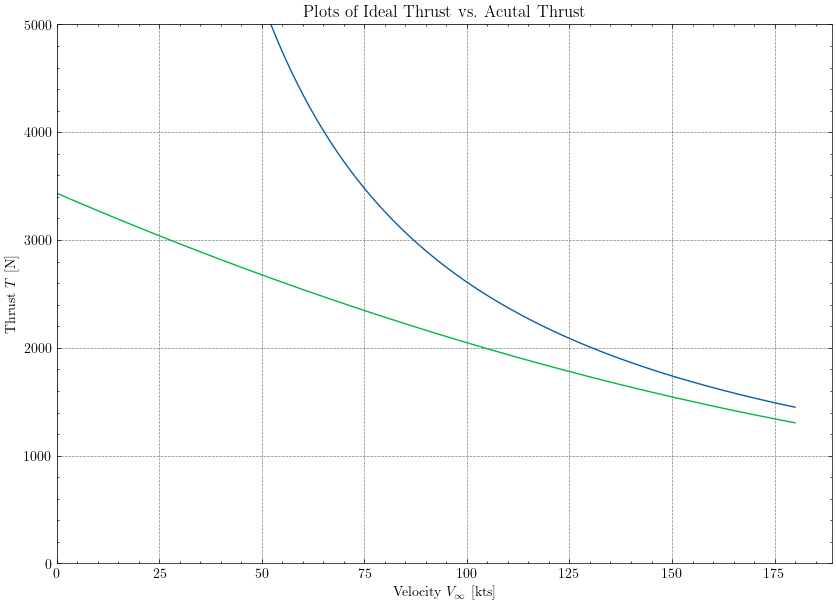
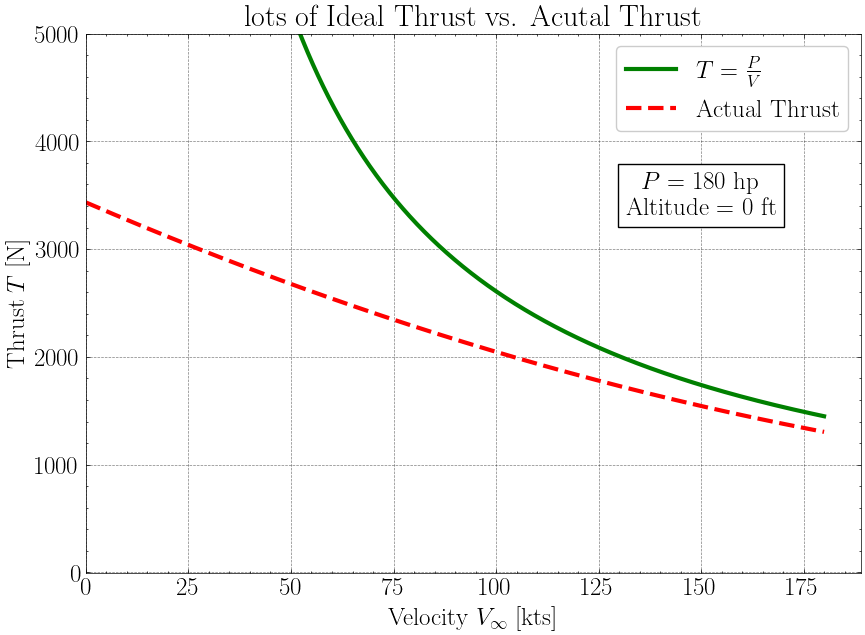
Thrust Plot Edits

diff --git a/Propulsion/Engine.py b/Propulsion/Engine.py
@@ -135,6 +135,8 @@ engine1 = EngineTest("test", ArcherProp)
 import matplotlib.pyplot as plt
 import numpy as np
 import scienceplots
+textsize = 18
+plt.rcParams.update({'font.size': textsize})
 plt.style.use(["science", "grid"])
 fig = plt.figure(figsize=(10,7))
 ax = fig.add_subplot(111)
@@ -152,13 +154,21 @@ ThrustReal = engine1.Get_Thrust(Velocity_Array, Velocity_Array.max())
 
 Title = "Plots of Ideal Thrust vs. Acutal Thrust"
 
-ax.set_title(Title)
+ax.set_title(Title[1:])
 ax.set_xlabel(r"Velocity $V_\infty$ [kts]")
 ax.set_ylabel(r"Thrust $T$ [N]")
-ax.plot(Velocity_Array, ThrustIdeal)
-ax.plot(Velocity_Array, ThrustReal)
-ax.set_ylim((0, 0.5*10**4))
+ax.plot(Velocity_Array, ThrustIdeal, "g-", label = r"$T = \frac{P}{V}$", lw = 3)
+ax.plot(Velocity_Array, ThrustReal, "r--", label = "Actual Thrust", lw = 3)
+ax.set_ylim((-1, 0.5*10**4))
 ax.set_xlim(left = 0)
-Title = r"\\" + Title.replace(" ", "_") + ".png"
-plt.savefig("C:\APCSE\Images_From_Code" + Title)
+
+ax.text(150, 3500, f"$P = {engine1.MaxBreakHorsePower}$ hp\n Altitude = {engine1.Altitude} ft",
+            ha="center", va="center", rotation=0, size=textsize,
+            bbox=dict(boxstyle="square,pad=.3",
+                      fc="white", ec="black", lw=1))
+Title = Title.replace(" ", "_") + ".png"
+plt.legend()
+os.chdir("C:\\APCSE\\Images_From_Code")
+plt.savefig(Title)
+os.chdir(engine_dir)
 plt.show()
